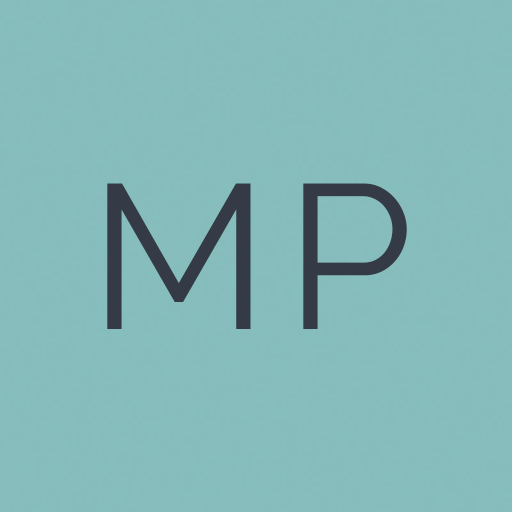
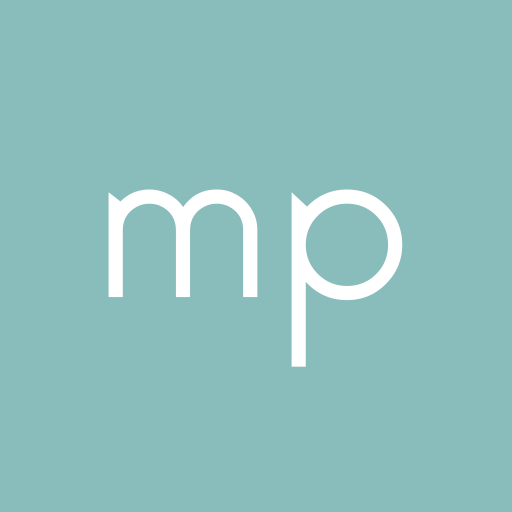
nice

Changed region(s): [[0.1875, 0.3438, 0.5312, 0.6562], [0.5625, 0.3438, 0.8125, 0.7188]]

diff --git a/gatsby-config.js b/gatsby-config.js
@@ -11,7 +11,7 @@ module.exports = {
       resolve: `gatsby-plugin-manifest`,
       options: {
         name: `Matteo's Portfolio`,
-        short_name: `Matteo's Portfolio`,
+        short_name: 'MP',
         start_url: `/`,
         background_color: `#88bdbc`,
         theme_color: `#88bdbc`,
